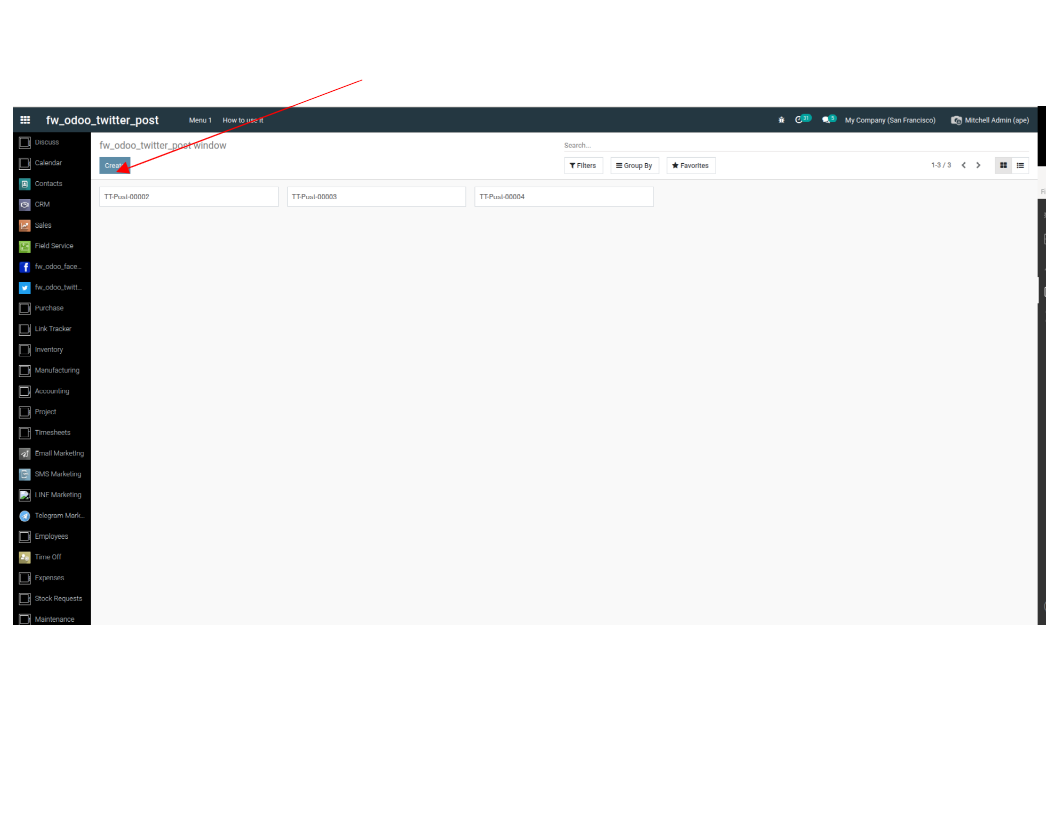
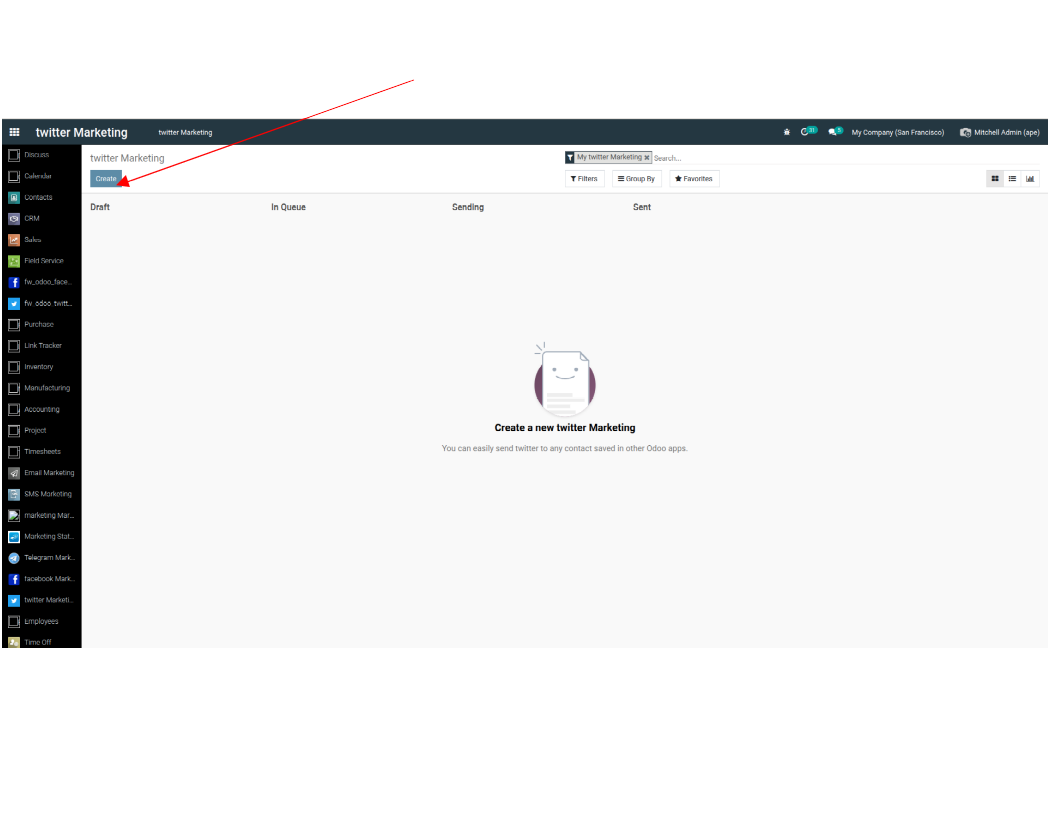
odoo_marketing

diff --git a/Modules/fw_odoo_twitter_marketing/static/description/index.html b/Modules/fw_odoo_twitter_marketing/static/description/index.html
@@ -85,31 +85,35 @@
             <br>
             <h3>
                 - Go on odoo <br>
-                - Click on fw_odoo_twitter_post <br>
+                - Click on twitter Marketing <br>
                 - Click on create <br>
                 <div class="oe_slogan text-center"> 
-                    <img src="create.png" />        
+                    <img src="create.png" />   
                 </div>
                 - Write the messag for your tweet <br>
                 - Write the path link to your directory where your image is located <br>
                 - Write all your key and access token, in the order: <br>
                 -> API KEY, API KEY SECRET, ACCESS TOKEN, ACCESS TOKEN SECRET <br>
                 <div class="oe_slogan text-center"> 
-                    <img src="odoo_tweet.png" />        
+                    <img src="odoo_tweet.png" />       
                 </div>  
+                Note :   <br>
                 - You can tweet a message, an image or both  <br>
-                <div class="oe_slogan text-center"> 
-                    <img src="tweet_post.png" />        
-                </div>  
-                - if you click on "post on twitter" it will ask a confirmation, then click on "OK"  <br>
+                - All the settings are already done, but you can change it if you want <br>   
+                  
+                - if you click on "send now" it will ask a confirmation, then click on "OK"  <br>
                 - if you click on "schedule" it will open a small window to choose the date and hour <br>
                 <div class="oe_slogan text-center"> 
-                    <img src="waiting.png" />        
+                    <img src="waiting.png" />    
                 </div>  
+
+                <div class="oe_slogan text-center"> 
+                    <img src="historic.png" />    
+                </div>
                 - Now your tweet is post, you can create a new tweet or retry on this one <br>
                 - Note : you can not send two times the same post <br>
                 <div class="oe_slogan text-center"> 
-                    <img src="retry.png" />        
+                    <img src="posted.png" /> 
                 </div>                                         
                 - Then go on Twitter and you will see your tweet
                 <div class="oe_slogan text-center"> 

diff --git a/Modules/fw_odoo_telegram_marketing/static/description/index.html b/Modules/fw_odoo_telegram_marketing/static/description/index.html
@@ -98,11 +98,9 @@
                     Note :  <br>  
                     - You can send message to several channel   <br>  
                     - You can only post image from internet (begin by "http")   <br>  
-                    - You can not put a image without text and you can not put several image <br>                                          
+                    - You can not put a image without text and you can not put several image <br>  
+                    - All the settings are already done, but you can change it if you want <br>                                        
 
-                    <div class="oe_slogan text-center"> 
-                        <img src="telegram_marketing.png" />              
-                    </div>
                     
                     - if you click on "send Now" it will ask a confirmation, then click on "OK"  <br>
                     - if you click on "schedule" it will open a small window to choose the date and hour <br>

diff --git a/Modules/fw_odoo_twitter_marketing/__manifest__.py b/Modules/fw_odoo_twitter_marketing/__manifest__.py
@@ -18,6 +18,7 @@
         'data/utm_data.xml',
         'views/mailing_twitter_menus.xml',
         'views/mailing_mailing_views.xml',
+        'views/help_view.xml',
         'wizard/twitter_schedule_date_action.xml',
     ],
     'application': True,
